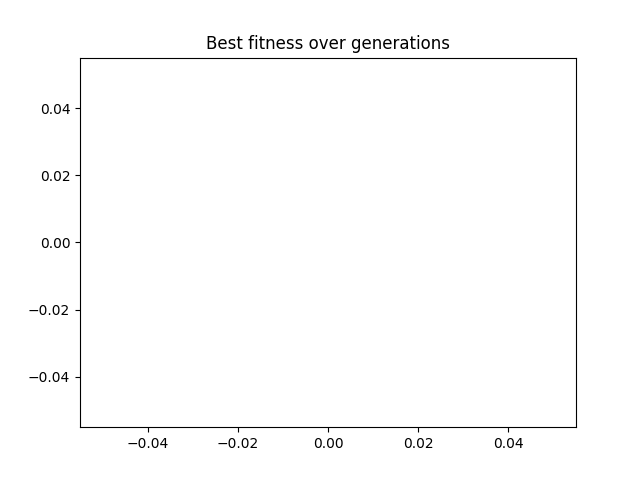
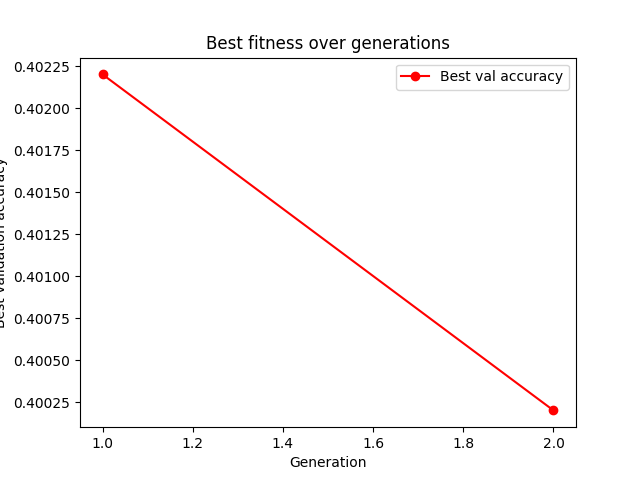
fixed GA bug

diff --git a/GeneticAlgorithm/GeneticAlgorithm.py b/GeneticAlgorithm/GeneticAlgorithm.py
@@ -482,7 +482,7 @@ class GeneticAlgorithm(object):
             elif not number_of_mutations == 0:
                 number_of_mutations += len(self.population) - (
                         number_of_mutations + number_of_crossovers + number_of_reproductions)
-        best = best_individual
+        best = self.population[0]  # before: best = best_individual
         index = 0
         new_population: List[Solution] = []
         for i in range(number_of_reproductions):
@@ -608,9 +608,9 @@ class GeneticAlgorithm(object):
             if self.print_:
                 print("Generation", count + 1)
             ind = self.regenerate(best, trainingItems)
+            bestArr.append(ind.get_fitness())
             if ind.fitter(best) == 1:
                 best = ind
-                bestArr.append(best)
             if self.print_:
                 print("Generation Best Fitness:", ind.get_fitness())
                 print("Generation Best Heuristic Combination: " + ind.get_heuristic_combination())

diff --git a/NeuralNetwork/Print.py b/NeuralNetwork/Print.py
@@ -122,9 +122,11 @@ def plot_lrs(history):
 
 def plot_ga_best(best_arr):
     plt.title("Best fitness over generations")
-    generations_arr = []
-    for x in range(len(best_arr)):
-        generations_arr.append(x+1)
-    plt.plot(generations_arr, best_arr)
+    plt.xlabel("Generation")
+    plt.ylabel("Best validation accuracy")
+    generations_arr = np.array(range(1, len(best_arr) + 1))
+    plt.plot(generations_arr, best_arr, color="red", marker="o", label="Best val accuracy")
+    plt.legend()
     plt.savefig('best_over_generations.png')
+
 
